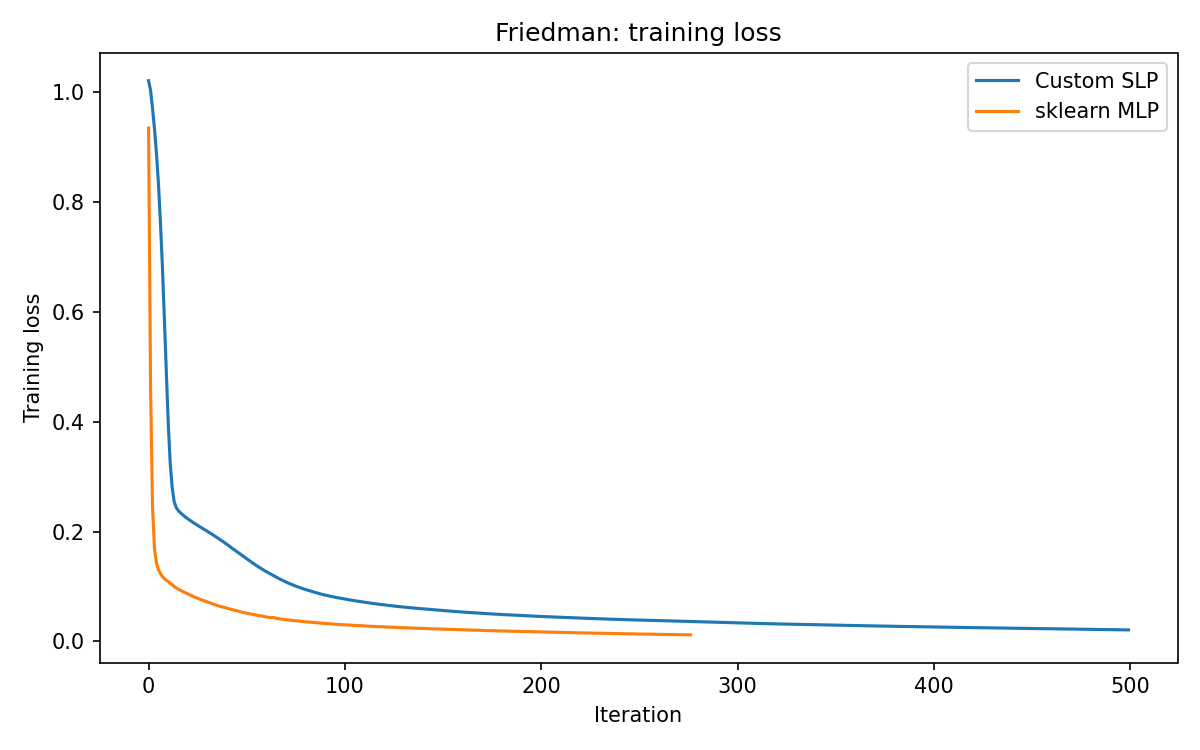
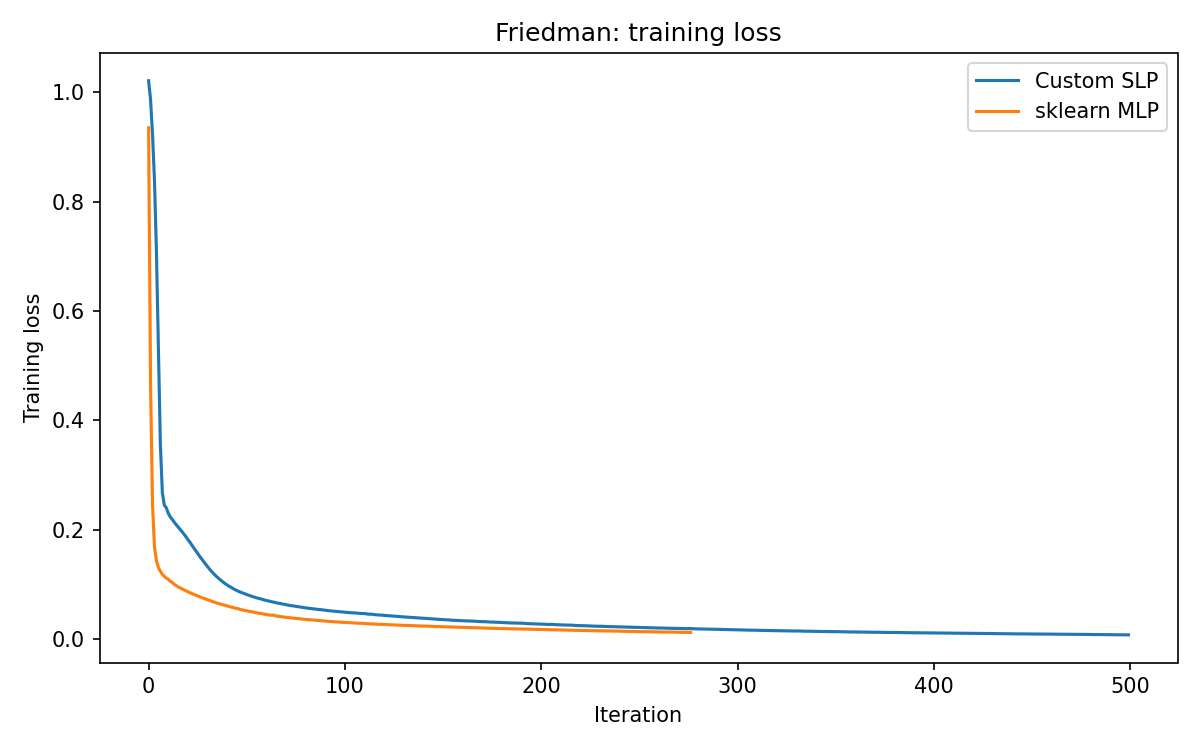
main

diff --git a/slp_regressor.py b/slp_regressor.py
@@ -128,7 +128,7 @@ class SimpleSLPRegressor(BaseSLPEstimator):
         """
         n_samples = X.shape[0]
         _, activation_derivative = self._get_activation_function()
-        scale = 1.0 / n_samples if self.activation == "relu" else 2.0 / n_samples
+        scale = 2.0 / n_samples
         gradients_w = [np.zeros_like(weight) for weight in self.weights_]
         gradients_b = [np.zeros_like(bias) for bias in self.biases_]
 

diff --git a/tests/test_models.py b/tests/test_models.py
@@ -629,7 +629,7 @@ class TestIntegration:
 
         reg = SimpleSLPRegressor(
             hidden_layer_size=30, activation="relu",
-            learning_rate=0.01, max_iter=300, random_state=42,
+            learning_rate=0.002, max_iter=300, random_state=42,
         )
         reg.fit(X_train, y_train)
         assert reg.score(X_test, y_test) > 0.6
